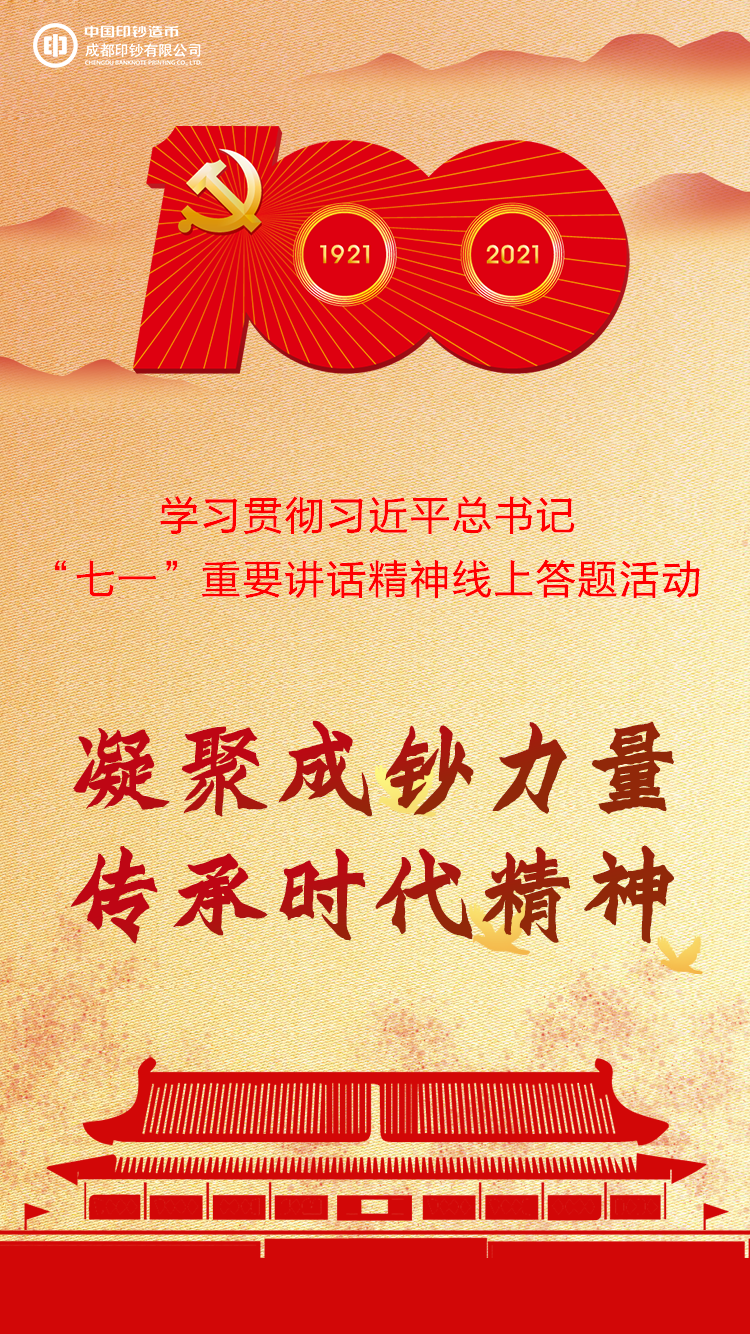
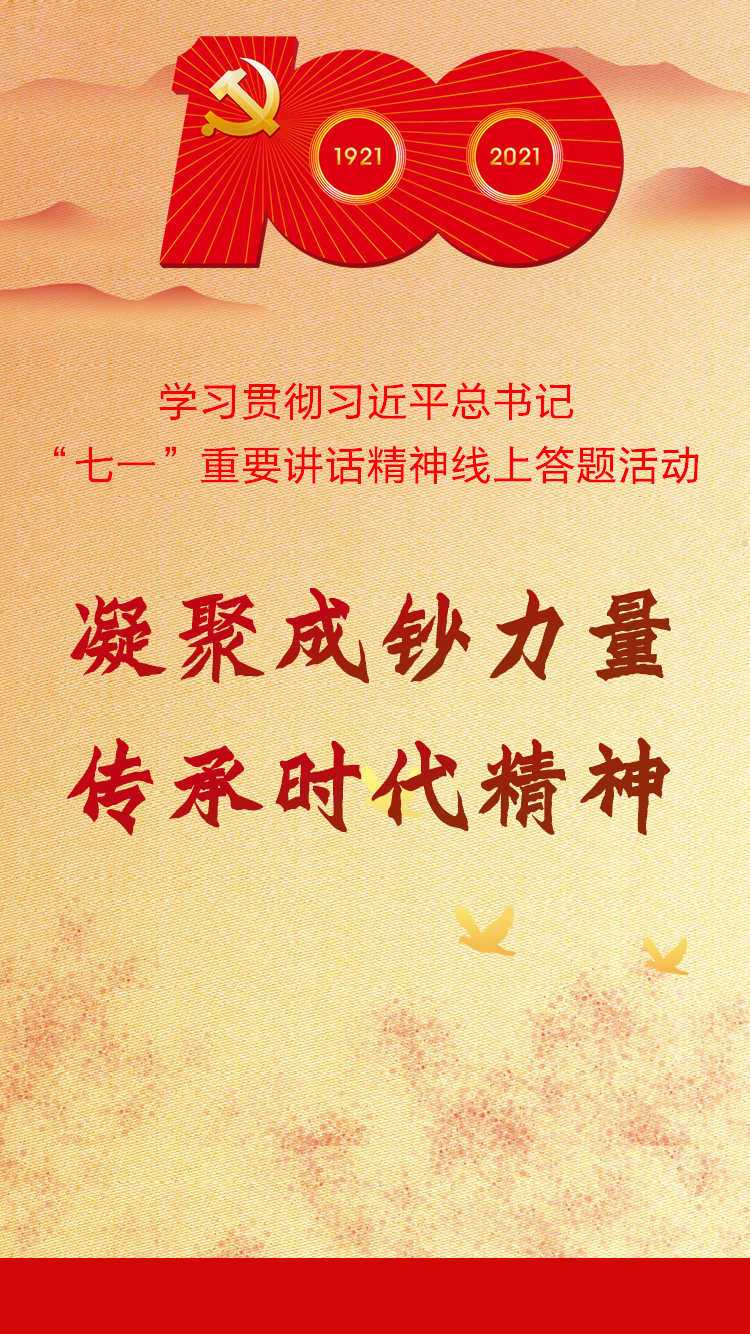
detail udpate

diff --git a/src/pages/MainSport.vue b/src/pages/MainSport.vue
@@ -15,10 +15,8 @@
           传承时代精神”
           ——学习贯彻习近平总书记“七一”重要讲话精神线上答题活动。请大家认真学习习近平总书记在庆祝中国共产党成立100周年大会上的重要讲话，在规定时间内完成答题。
         </p>
-        <br />
         <p style="text-align: right">党委宣传部<br />2021年9月27日</p>
-      </div>
-      <br />
+      </div> <br/>
       <div class="login">
         <x-button
           type="primary"
@@ -32,7 +30,7 @@
     <!-- <canvas ref="band"></canvas> -->
     <div class="canvas" id="home"></div>
     <v-foot color="#333" />
-    <img src="../assets/img/back.jpg" class="mainbg" />
+    <img src="../assets/img/bg1.png" class="mainbg" />
   </div>
 </template>
 <script>

diff --git a/src/pages/Answer.vue b/src/pages/Answer.vue
@@ -130,7 +130,7 @@ export default {
   margin: 0;
   padding: 10px;
   color: #785a32;
-  background: url(../assets/img/bg1.jpg) 0 0 no-repeat;
+  background: url(../assets/img/bg1.png) 0 0 no-repeat;
   background-size: 100% 110%;
   height: 100%;
 }
@@ -151,7 +151,7 @@ export default {
   text-align: center;
   box-sizing: border-box;
   z-index: 2;
-  color: #c1af96;
+  color: #563913;
   font-size: 20px;
   background: #faf5f0;
   background-clip: padding-box;

diff --git a/src/pages/Errlist.vue b/src/pages/Errlist.vue
@@ -183,7 +183,7 @@ export default {
   margin: 0;
   padding: 10px;
   color: #785a32;
-  background: url(../assets/img/bg1.jpg) 0 0 no-repeat;
+  background: url(../assets/img/bg1.png) 0 0 no-repeat;
   background-size: 100% 110%;
   height: 100%;
 }
@@ -204,7 +204,7 @@ export default {
   text-align: center;
   box-sizing: border-box;
   z-index: 2;
-  color: #c1af96;
+  color: #563913;
   font-size: 20px;
   background: #faf5f0;
   background-clip: padding-box;

diff --git a/src/pages/Study.vue b/src/pages/Study.vue
@@ -111,7 +111,7 @@ export default {
   margin: 0;
   padding: 10px;
   color: #785a32;
-  background: url(../assets/img/bg1.jpg) 0 0 no-repeat;
+  background: url(../assets/img/bg1.png) 0 0 no-repeat;
   background-size: 100% 110%;
   height: 100%;
 }
@@ -132,7 +132,7 @@ export default {
   text-align: center;
   box-sizing: border-box;
   z-index: 2;
-  color: #c1af96;
+  color: #563913;
   font-size: 20px;
   background: #faf5f0;
   background-clip: padding-box;

diff --git a/src/pages/Paper.vue b/src/pages/Paper.vue
@@ -488,7 +488,7 @@ export default {
   margin: 0;
   padding: 0 10px;
   color: #785a32;
-  background: url(../assets/img/bg1.jpg) 0 0 no-repeat;
+  background: url(../assets/img/bg1.png) 0 0 no-repeat;
   background-size: 100% 110%;
 }
 .submit {
@@ -508,7 +508,7 @@ export default {
   text-align: center;
   box-sizing: border-box;
   z-index: 2;
-  color: #c1af96;
+  color: #563913;
   font-size: 20px;
   background: #faf5f0;
   background-clip: padding-box;

diff --git a/src/pages/Login.vue b/src/pages/Login.vue
@@ -41,7 +41,7 @@
         <!-- <x-button @click.native="jump('study')">知识学习</x-button> -->
       </div>
     </group>
-    <img src="../assets/img/bg1.jpg" class="mainbg" />
+    <img src="../assets/img/bg1.png" class="mainbg" />
     <toast v-model="toast.show">{{ toast.msg }}</toast>
     <v-foot />
   </div>

diff --git a/src/pages/Home.vue b/src/pages/Home.vue
@@ -13,7 +13,7 @@
     <!-- <canvas ref="band"></canvas> -->
     <div class="canvas" id="home"></div>
     <v-foot color="#333" />
-    <img src="../assets/img/main1.png" class="mainbg" />
+    <img src="../assets/img/main2.png" class="mainbg" />
   </div>
 </template>
 <script>

diff --git a/src/assets/css/weui.css b/src/assets/css/weui.css
@@ -1,9 +1,10 @@
 .weui-cells__title {
-  color: #785a32 !important;
+  color: #563913 !important;
   font-size: 16px !important;
   margin-top: 0 !important;
   padding-top: 0;
   padding-bottom: 0;
+  font-weight: normal;
 }
 .weui-cell {
   padding: 5px 10px !important;

diff --git a/src/assets/css/fullpage.css b/src/assets/css/fullpage.css
@@ -35,4 +35,5 @@
   vertical-align: middle;
   width: 100%;
   height: 100%;
+  padding-top:17%;
 }
